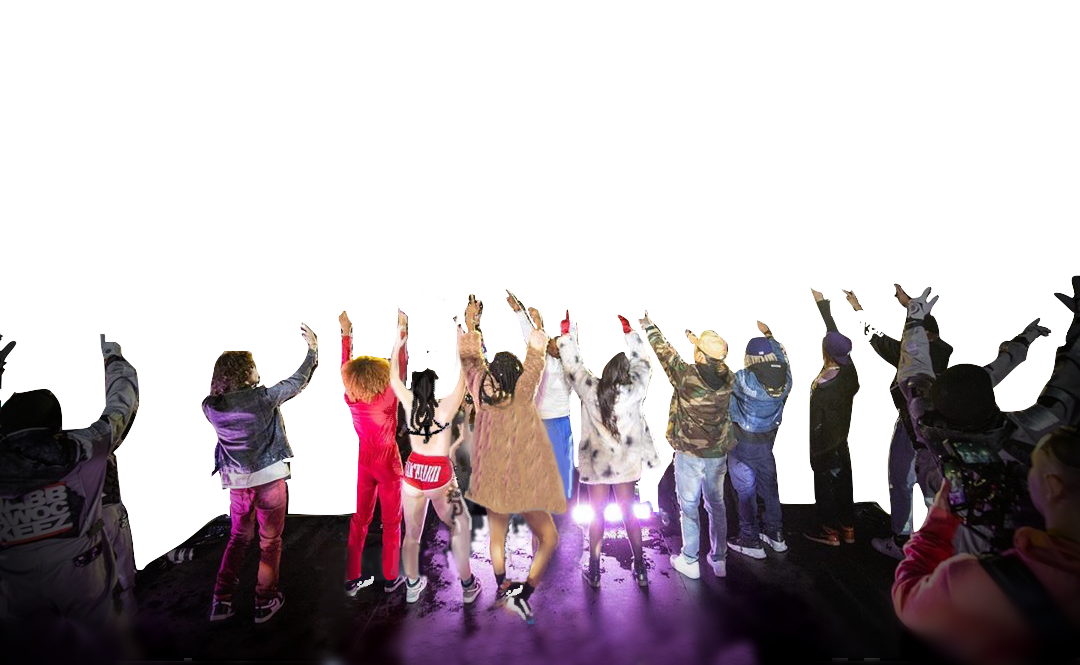
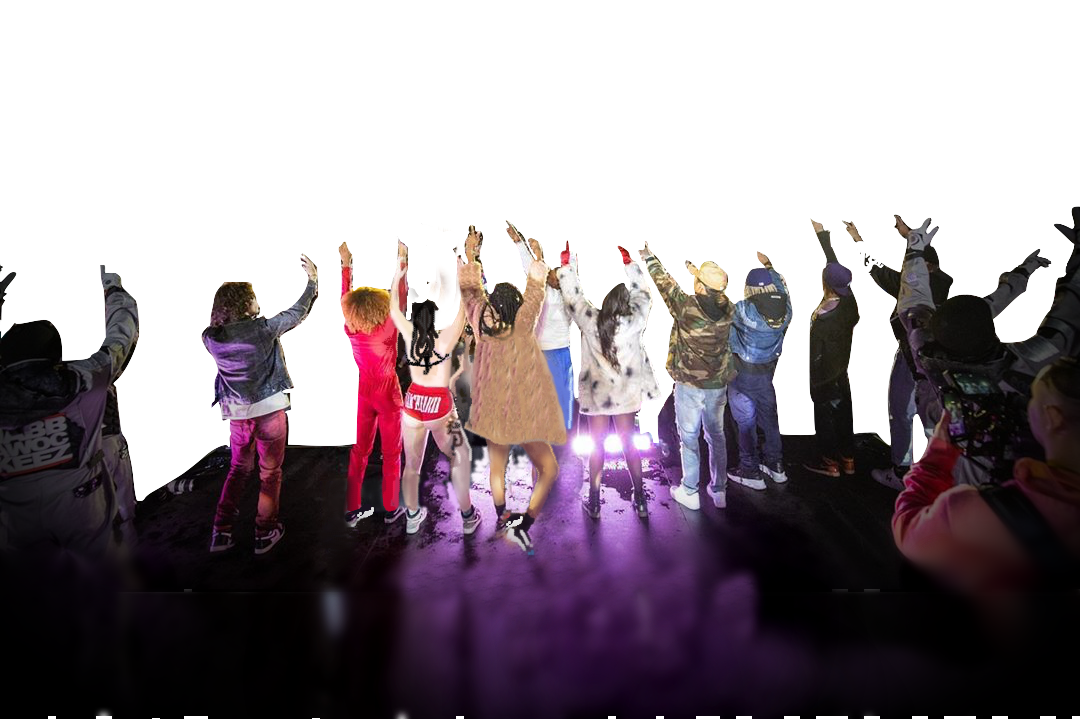
align images on parallax

diff --git a/src/components/media/parallax-home/parallax-home.jsx b/src/components/media/parallax-home/parallax-home.jsx
@@ -7,11 +7,11 @@ import '../../../stylesheets/parallax.css';
 
 function ParallaxHome() {
   return(
-    <div>
-      <img src={image1} className="par-1" />
-      <img src={image2} className="par-2" />
-      <img src={image3} className="par-3" />
-      <img src={image4} className="par-4" />
+    <div className="parallax-container column">
+      <img src={image1} className="par par-1" />
+      <img src={image2} className="par par-2" />
+      <img src={image3} className="par par-3" />
+      <img src={image4} className="par par-4" />
     </div>
   )
 }

diff --git a/src/stylesheets/parallax.css b/src/stylesheets/parallax.css
@@ -1,0 +1,28 @@
+*, *:before, *:after {
+  box-sizing: border-box;
+}
+
+.parallax-container {
+  position: relative;
+  align-items: center;
+  padding: 2em;
+}
+
+.par {
+  position: absolute;
+  z-index: -1;
+  height: auto;
+}
+
+.par-1 {
+  display: grid;
+  grid-template-rows: 10% 30% auto;
+}
+
+.par-3 {
+  top: 105px;
+}
+
+/* .par:not(.par-3) {
+  visibility: hidden;
+} */
